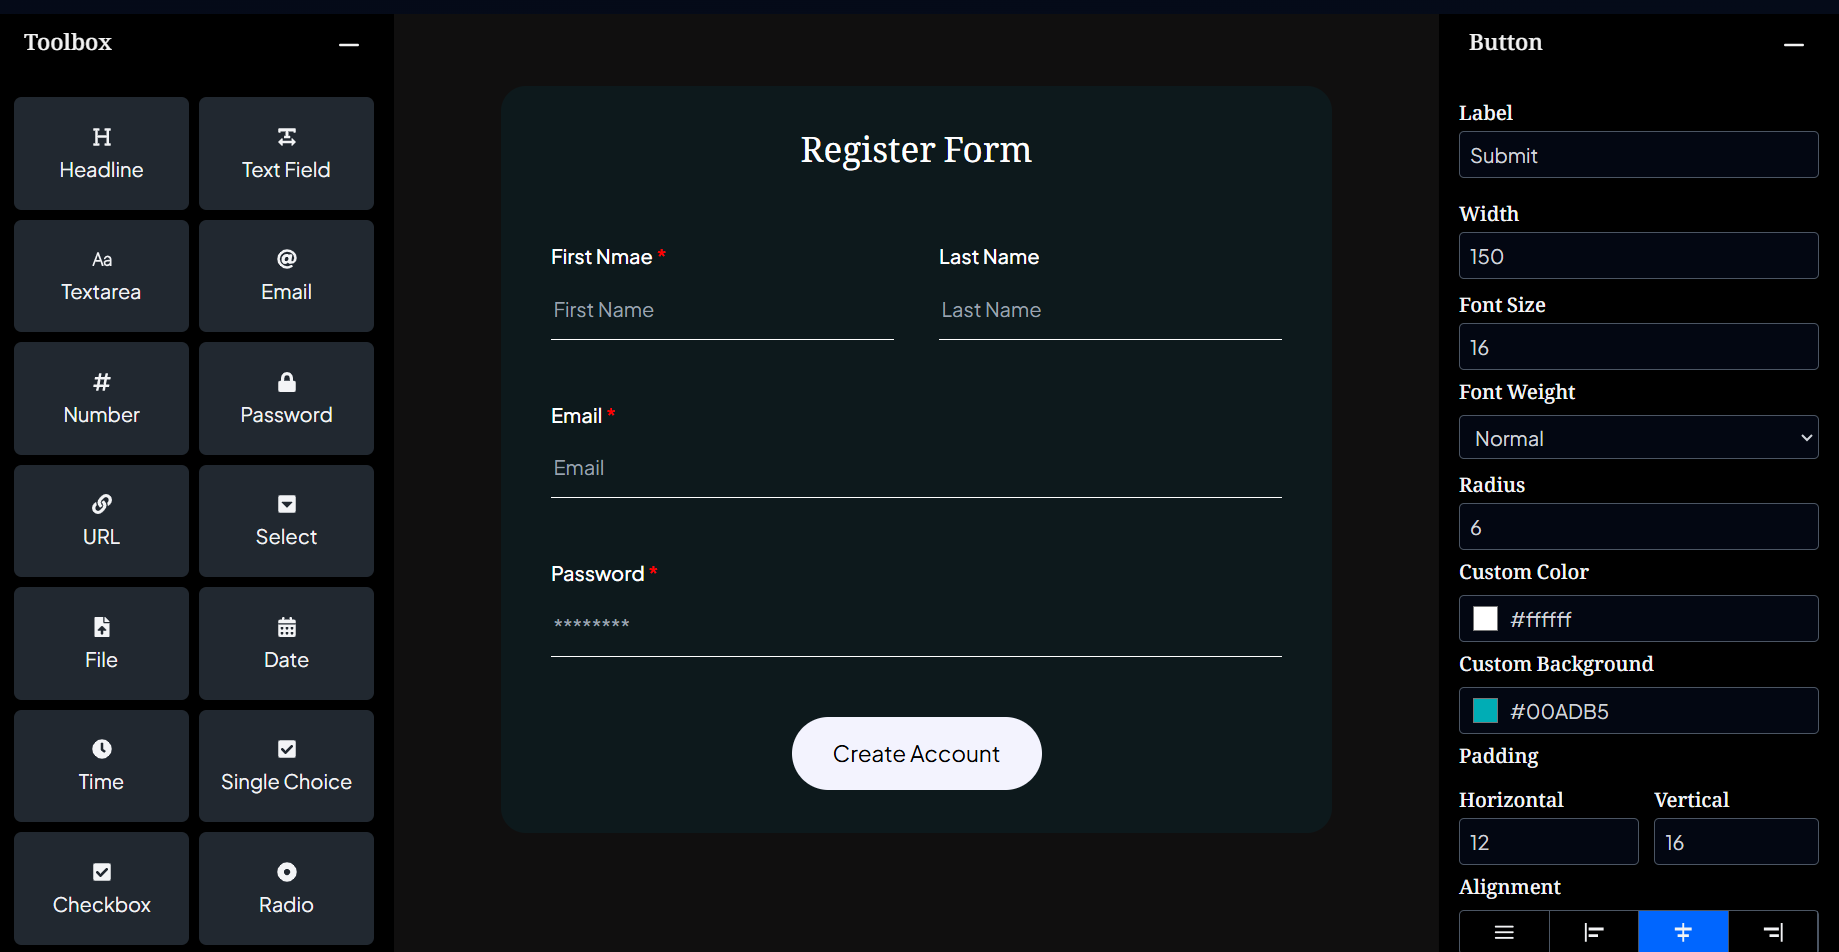
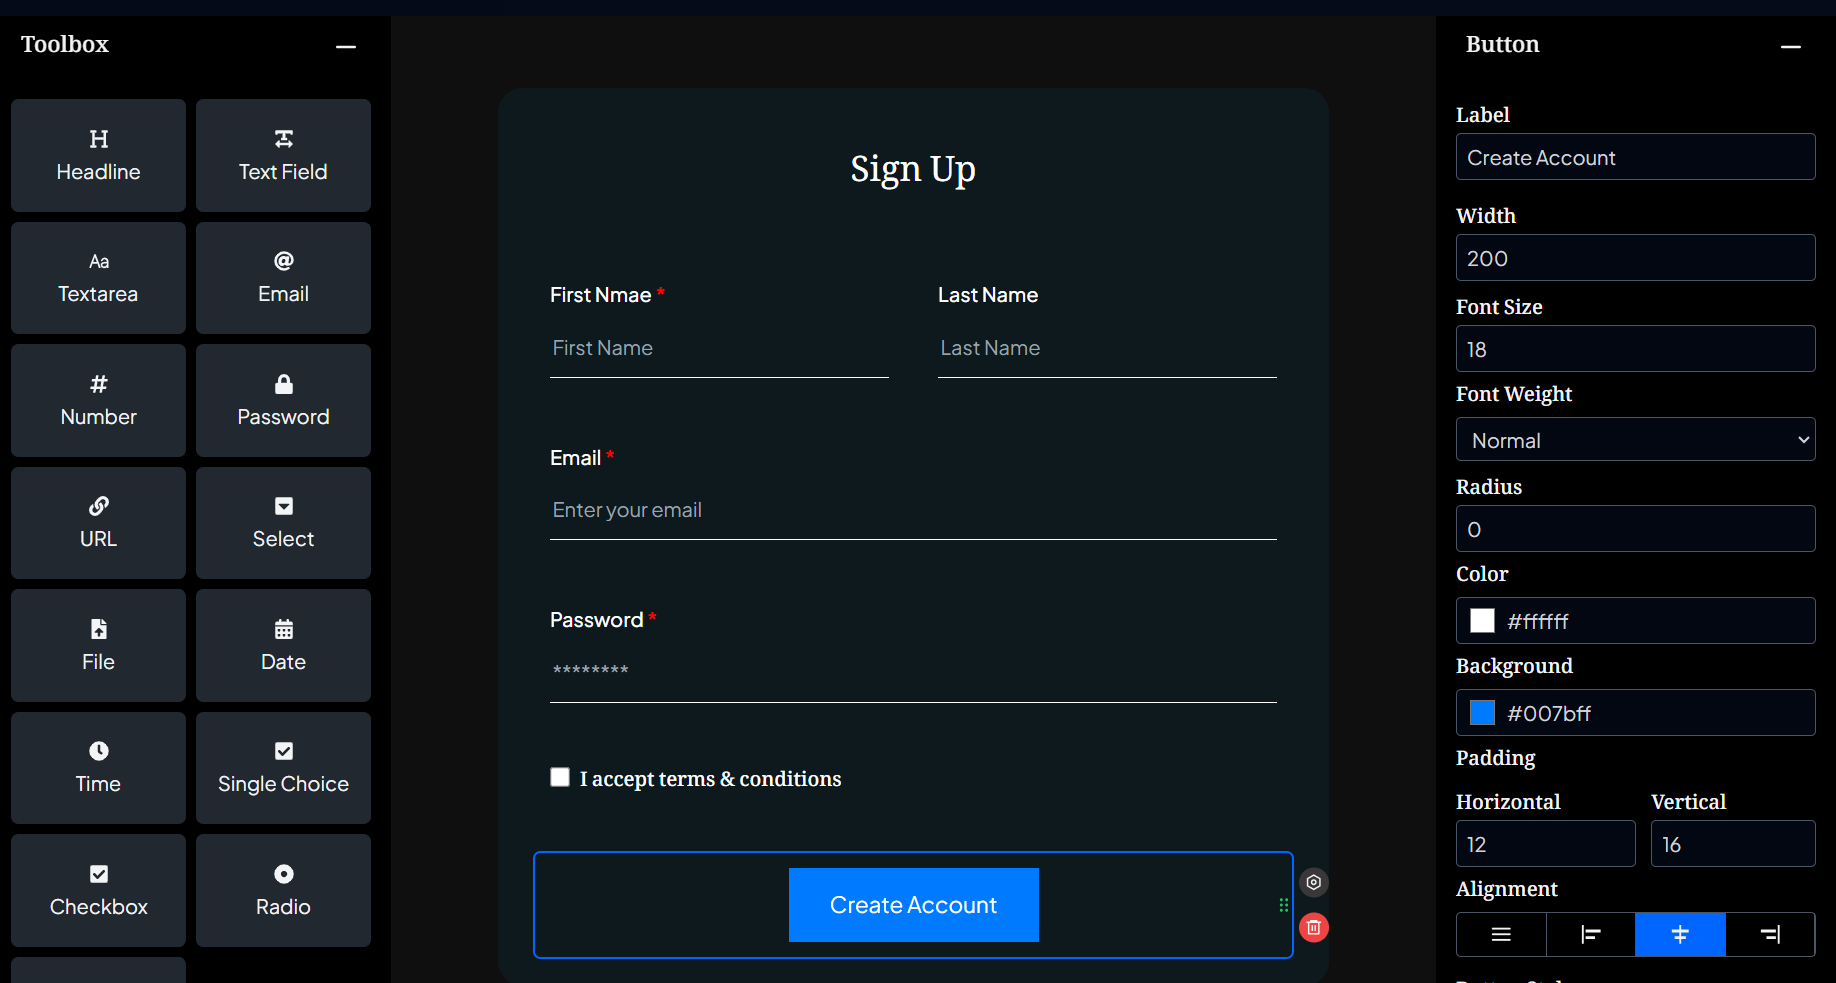
web title and video placeholcer chagne

diff --git a/index.html b/index.html
@@ -5,7 +5,7 @@
     <link rel="icon" type="image/svg+xml" href="/public/form-icon.png" />
     <!-- <link rel="icon" type="image/svg+xml" href="/vite.svg" /> -->
     <meta name="viewport" content="width=device-width, initial-scale=1.0" />
-    <title>Form Builder</title>
+    <title>Form Builder – Build Forms Faster, Smarter & Easier</title>
   </head>
   <body>
     <div id="root"></div>